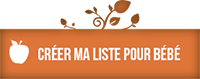
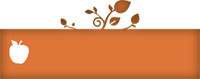
Modification des boutons

Changed region(s): [[0.18, 0.557, 0.9, 0.7848]]

diff --git a/PousseDeBambin/Content/css/createList.less b/PousseDeBambin/Content/css/createList.less
@@ -117,6 +117,19 @@ textarea {
     margin-left: 80px;
 }
 
+.btn-validation-liste {
+    background: url('/Content/img/create/bouton_creer_liste.png') no-repeat;
+    height: 109px;
+    width: 225px;
+    border: none;
+    outline: none;
+    cursor: pointer;
+    margin-left: 80px;
+    font-family: 'bebas_neueregular';
+    font-size: 17px;
+    color: #fff;
+}
+
 .error_message {
     color: #ea744e;
     font-family: Arial;

diff --git a/PousseDeBambin/Content/css/createList.css b/PousseDeBambin/Content/css/createList.css
@@ -105,6 +105,18 @@ textarea {
   cursor: pointer;
   margin-left: 80px;
 }
+.btn-validation-liste {
+  background: url('/Content/img/create/bouton_creer_liste.png') no-repeat;
+  height: 109px;
+  width: 225px;
+  border: none;
+  outline: none;
+  cursor: pointer;
+  margin-left: 80px;
+  font-family: 'bebas_neueregular';
+  font-size: 17px;
+  color: #fff;
+}
 .error_message {
   color: #ea744e;
   font-family: Arial;
